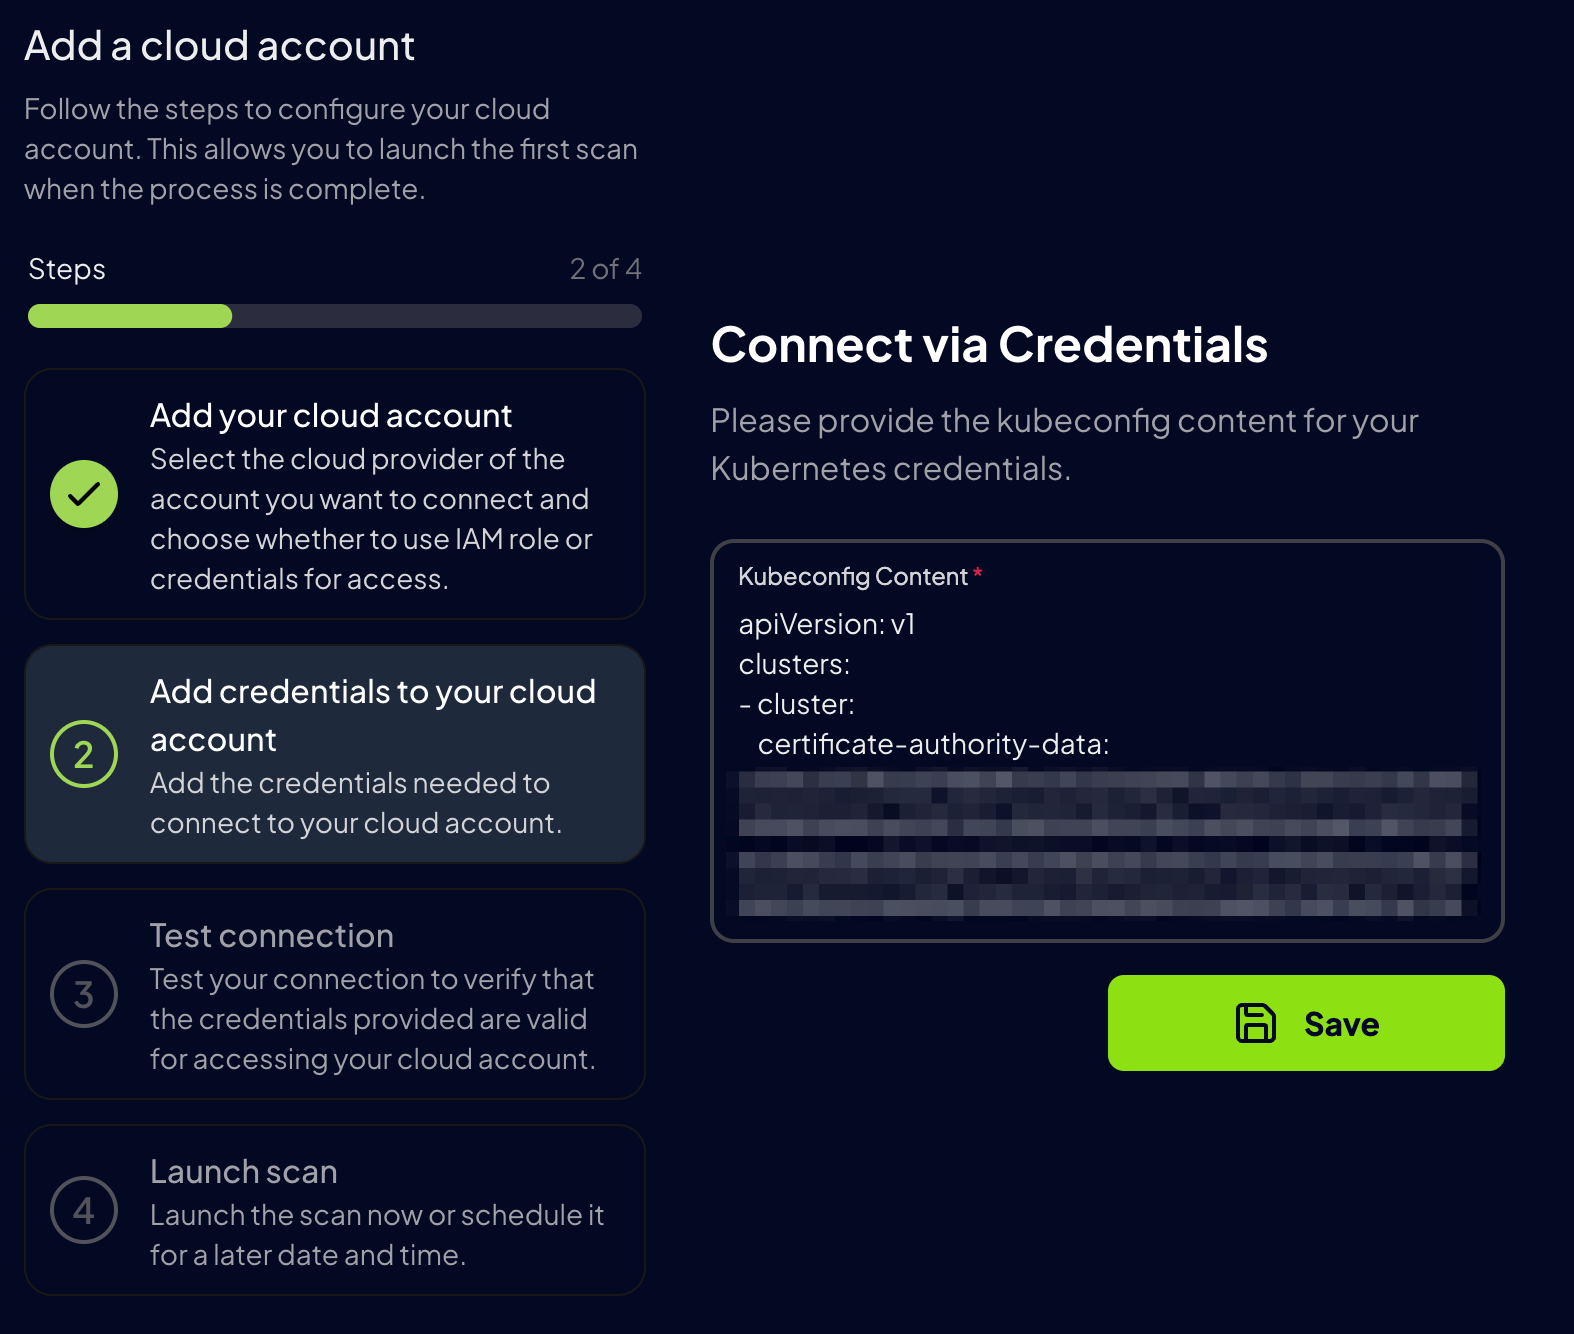
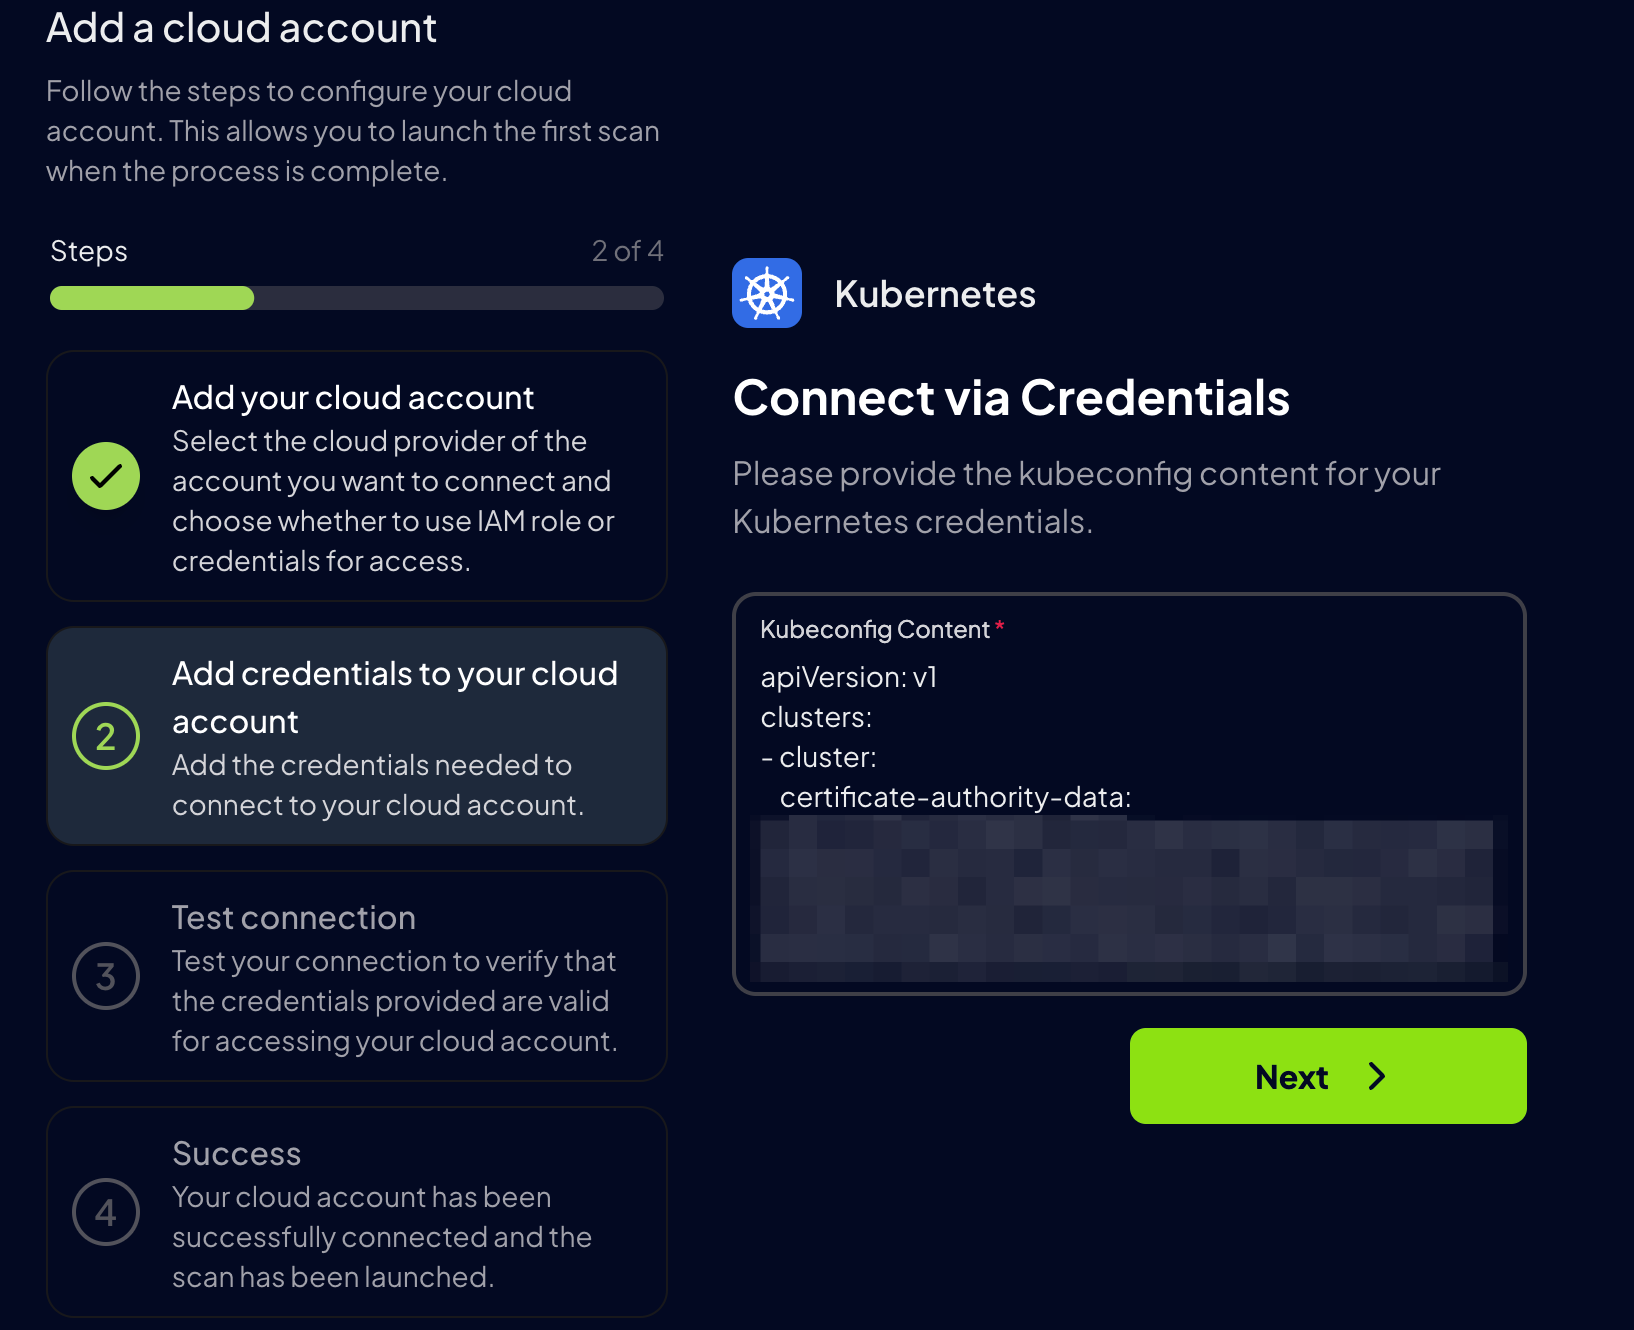
chore(docs): update screenshots and docs of Prowler App (#5984)

diff --git a/docs/tutorials/prowler-app.md b/docs/tutorials/prowler-app.md
@@ -18,12 +18,14 @@ Once you’ve signed up, log in with your email and password to start using the 
 
 <img src="../../img/log-in.png" alt="Log In" width="350"/>
 
+You will see the Overview page with no data yet, so let's start adding a provider to scan your cloud environment.
+
 ---
 
 ## **Step 3: Add a Provider**
-To run your first scan:
+To run your first scan, you need to add a cloud provider account. Prowler App supports AWS, Azure, GCP, and Kubernetes.
 
-1. Navigate to `Settings > Providers`.
+1. Navigate to `Settings > Cloud Providers`.
 2. Click `Add Account` to set up a new provider and provide your credentials:
 
 <img src="../../img/add-provider.png" alt="Add Provider" width="700"/>
@@ -33,6 +35,10 @@ To run your first scan:
 ## **Step 4: Configure the Provider**
 Choose the provider you want to scan from the following options:
 
+<img src="../../img/select-provider.png" alt="Select a Provider" width="700"/>
+
+Once you’ve selected a provider, you need to provide the Provider UID:
+
 - **AWS**: Enter your AWS Account ID.
 - **GCP**: Enter your GCP Project ID.
 - **Azure**: Enter your Azure Subscription ID.
@@ -40,11 +46,9 @@ Choose the provider you want to scan from the following options:
 
 Optionally, provide a **Provider Alias** for easier identification. Follow the instructions provided to add your credentials:
 
-<img src="../../img/add-account.png" alt="Add Account" width="700"/>
-
 ---
 ### **Step 4.1: AWS Credentials**
-For AWS, Prowler App can use either IAM Access Keys or assume an IAM Role. Here’s how to set up each:
+For AWS, enter your `AWS Account ID` and choose one of the following methods to connect:
 
 #### **Step 4.1.1: IAM Access Keys**
 1. Select `Connect via Credentials`.
@@ -95,15 +99,15 @@ By default, the `kubeconfig` file is located at `~/.kube/config`.
 ---
 
 ## **Step 5: Test Connection**
-After adding your credentials of your cloud account, click the `Test Connection` button to verify that the Prowler App can successfully connect to your provider:
+After adding your credentials of your cloud account, click the `Launch` button to verify that the Prowler App can successfully connect to your provider:
 
 <img src="../../img/test-connection-button.png" alt="Test Connection" width="700"/>
 
 
-## **Step 6: Start Your First Scan**
-After successfully adding and testing your credentials, click the `Start Now` button to initiate your first scan:
+## **Step 6: Scan started**
+After successfully adding and testing your credentials, Prowler will start scanning your cloud environment, click on the `Go to Scans` button to see the progress:
 
-<img src="../../img/start-now.png" alt="Start Now" width="700"/>
+<img src="../../img/provider-added.png" alt="Start Now" width="700"/>
 
 ???+ note
     Prowler will automatically scan all configured providers every **24 hours**, ensuring your cloud environment stays continuously monitored.
@@ -119,7 +123,10 @@ Track the progress of your scan in the `Scans` section:
 ## **Step 8: Analyze the Findings**
 While the scan is running, start exploring the findings in these sections:
 
-- **Overview**: High-level summary of the scan.
-- **Findings**: Detailed list of issues detected. <img src="../../img/findings.png" alt="Findings" width="700"/>
+- **Overview**: High-level summary of the scans. <img src="../../img/overview.png" alt="Overview" width="700"/>
 - **Compliance**: Insights into compliance status. <img src="../../img/compliance.png" alt="Compliance" width="700"/>
-- **Services**: Breakdown of services scanned. <img src="../../img/services.png" alt="Services" width="700"/>
+- **Issues**: Types of issues detected.
+
+<img src="../../img/issues.png" alt="Issues" width="300" style="text-align: center;"/>
+
+- **Browse All Findings**: Detailed list of findings detected, where you can filter by severity, service, and more. <img src="../../img/findings.png" alt="Findings" width="700"/>

diff --git a/docs/index.md b/docs/index.md
@@ -2,7 +2,7 @@
 
 ## Prowler App
 
-![Prowler App](img/compliance-app.png)
+![Prowler App](img/overview.png)
 
 Prowler App is a web application that allows you to run Prowler in a simple way. It provides a user-friendly interface to configure and run scans, view results, and manage your security findings.
 
@@ -362,21 +362,19 @@ Log in with your email and password to start using the Prowler App.
 <img src="img/log-in.png" alt="Log In" width="285"/>
 
 #### **Add a Provider**
-- Go to `Settings > Providers` and click `Add Account`.
+- Go to `Settings > Cloud Providers` and click `Add Account`.
 - Select the provider you want to scan (AWS, GCP, Azure, Kubernetes).
 - Enter the provider's ID (AWS Account ID, GCP Project ID, Azure Subscription ID, Kubernetes Cluster) and optional alias.
 - Follow the instructions to add your credentials.
 
 #### **Start a Scan**
-Once your credentials are added and tested, click `Start Now` to run your first scan.
+After successfully adding and testing your credentials, Prowler will start scanning your cloud environment, click on the `Go to Scans` button to see the progress.
 
 #### **View Results**
-Monitor your scan's progress in the `Scans` section and analyze the findings in:
+While the scan is running, start exploring the findings in these sections:
 
-- **Overview**: High-level summary of the scan.
-- **Findings**: Detailed list of issues detected. <img src="img/findings.png" alt="Findings" width="700"/>
-- **Compliance**: Insights into compliance status. <img src="img/compliance.png" alt="Compliance" width="700"/>
-- **Services**: Breakdown of services scanned. <img src="img/services.png" alt="Services" width="700"/>
+- **Overview**: High-level summary of the scans. <img src="../../img/overview.png" alt="Overview" width="700"/>
+- **Compliance**: Insights into compliance status. <img src="../../img/compliance.png" alt="Compliance" width="700"/>
 
 > See more details about the Prowler App usage in the [Prowler App](tutorials/prowler-app.md) section.
 

diff --git a/README.md b/README.md
@@ -49,7 +49,7 @@
 
 Prowler App is a web application that allows you to run Prowler in your cloud provider accounts and visualize the results in a user-friendly interface.
 
-![Prowler App](docs/img/compliance-app.png)
+![Prowler App](docs/img/overview.png)
 
 >More details at [Prowler App Documentation](https://docs.prowler.com/projects/prowler-open-source/en/latest/#prowler-app-installation)
 
